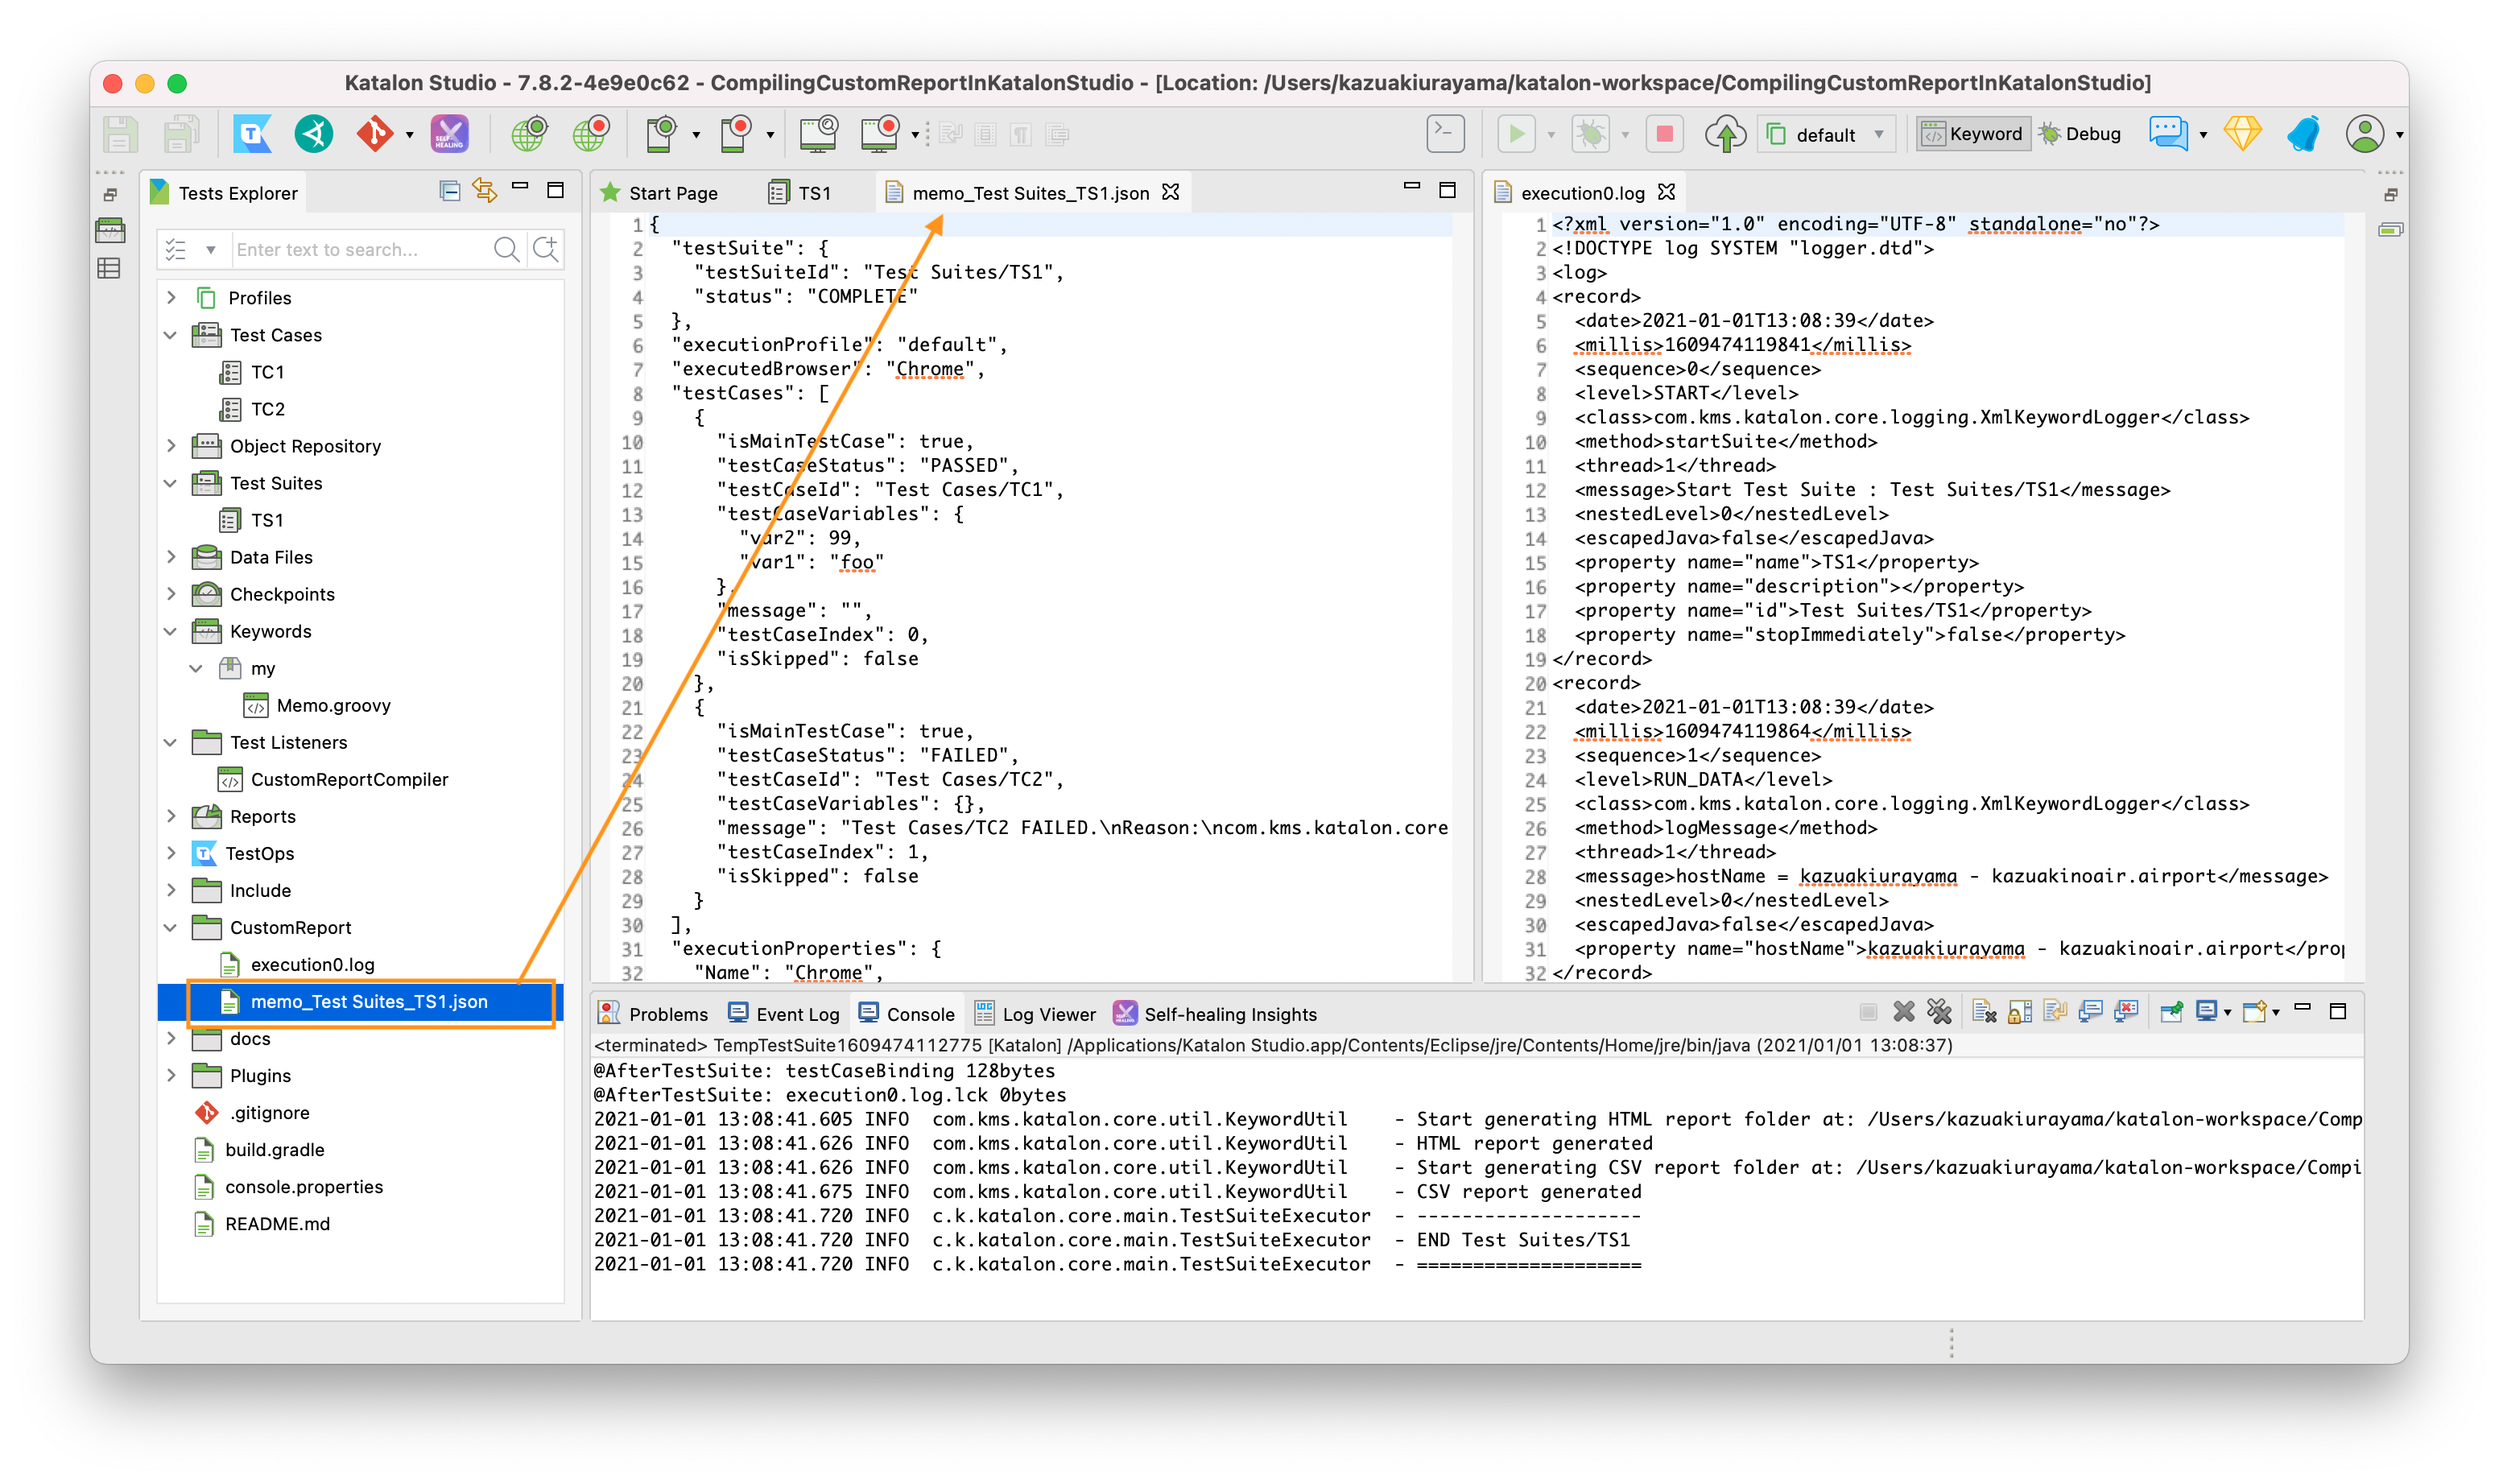
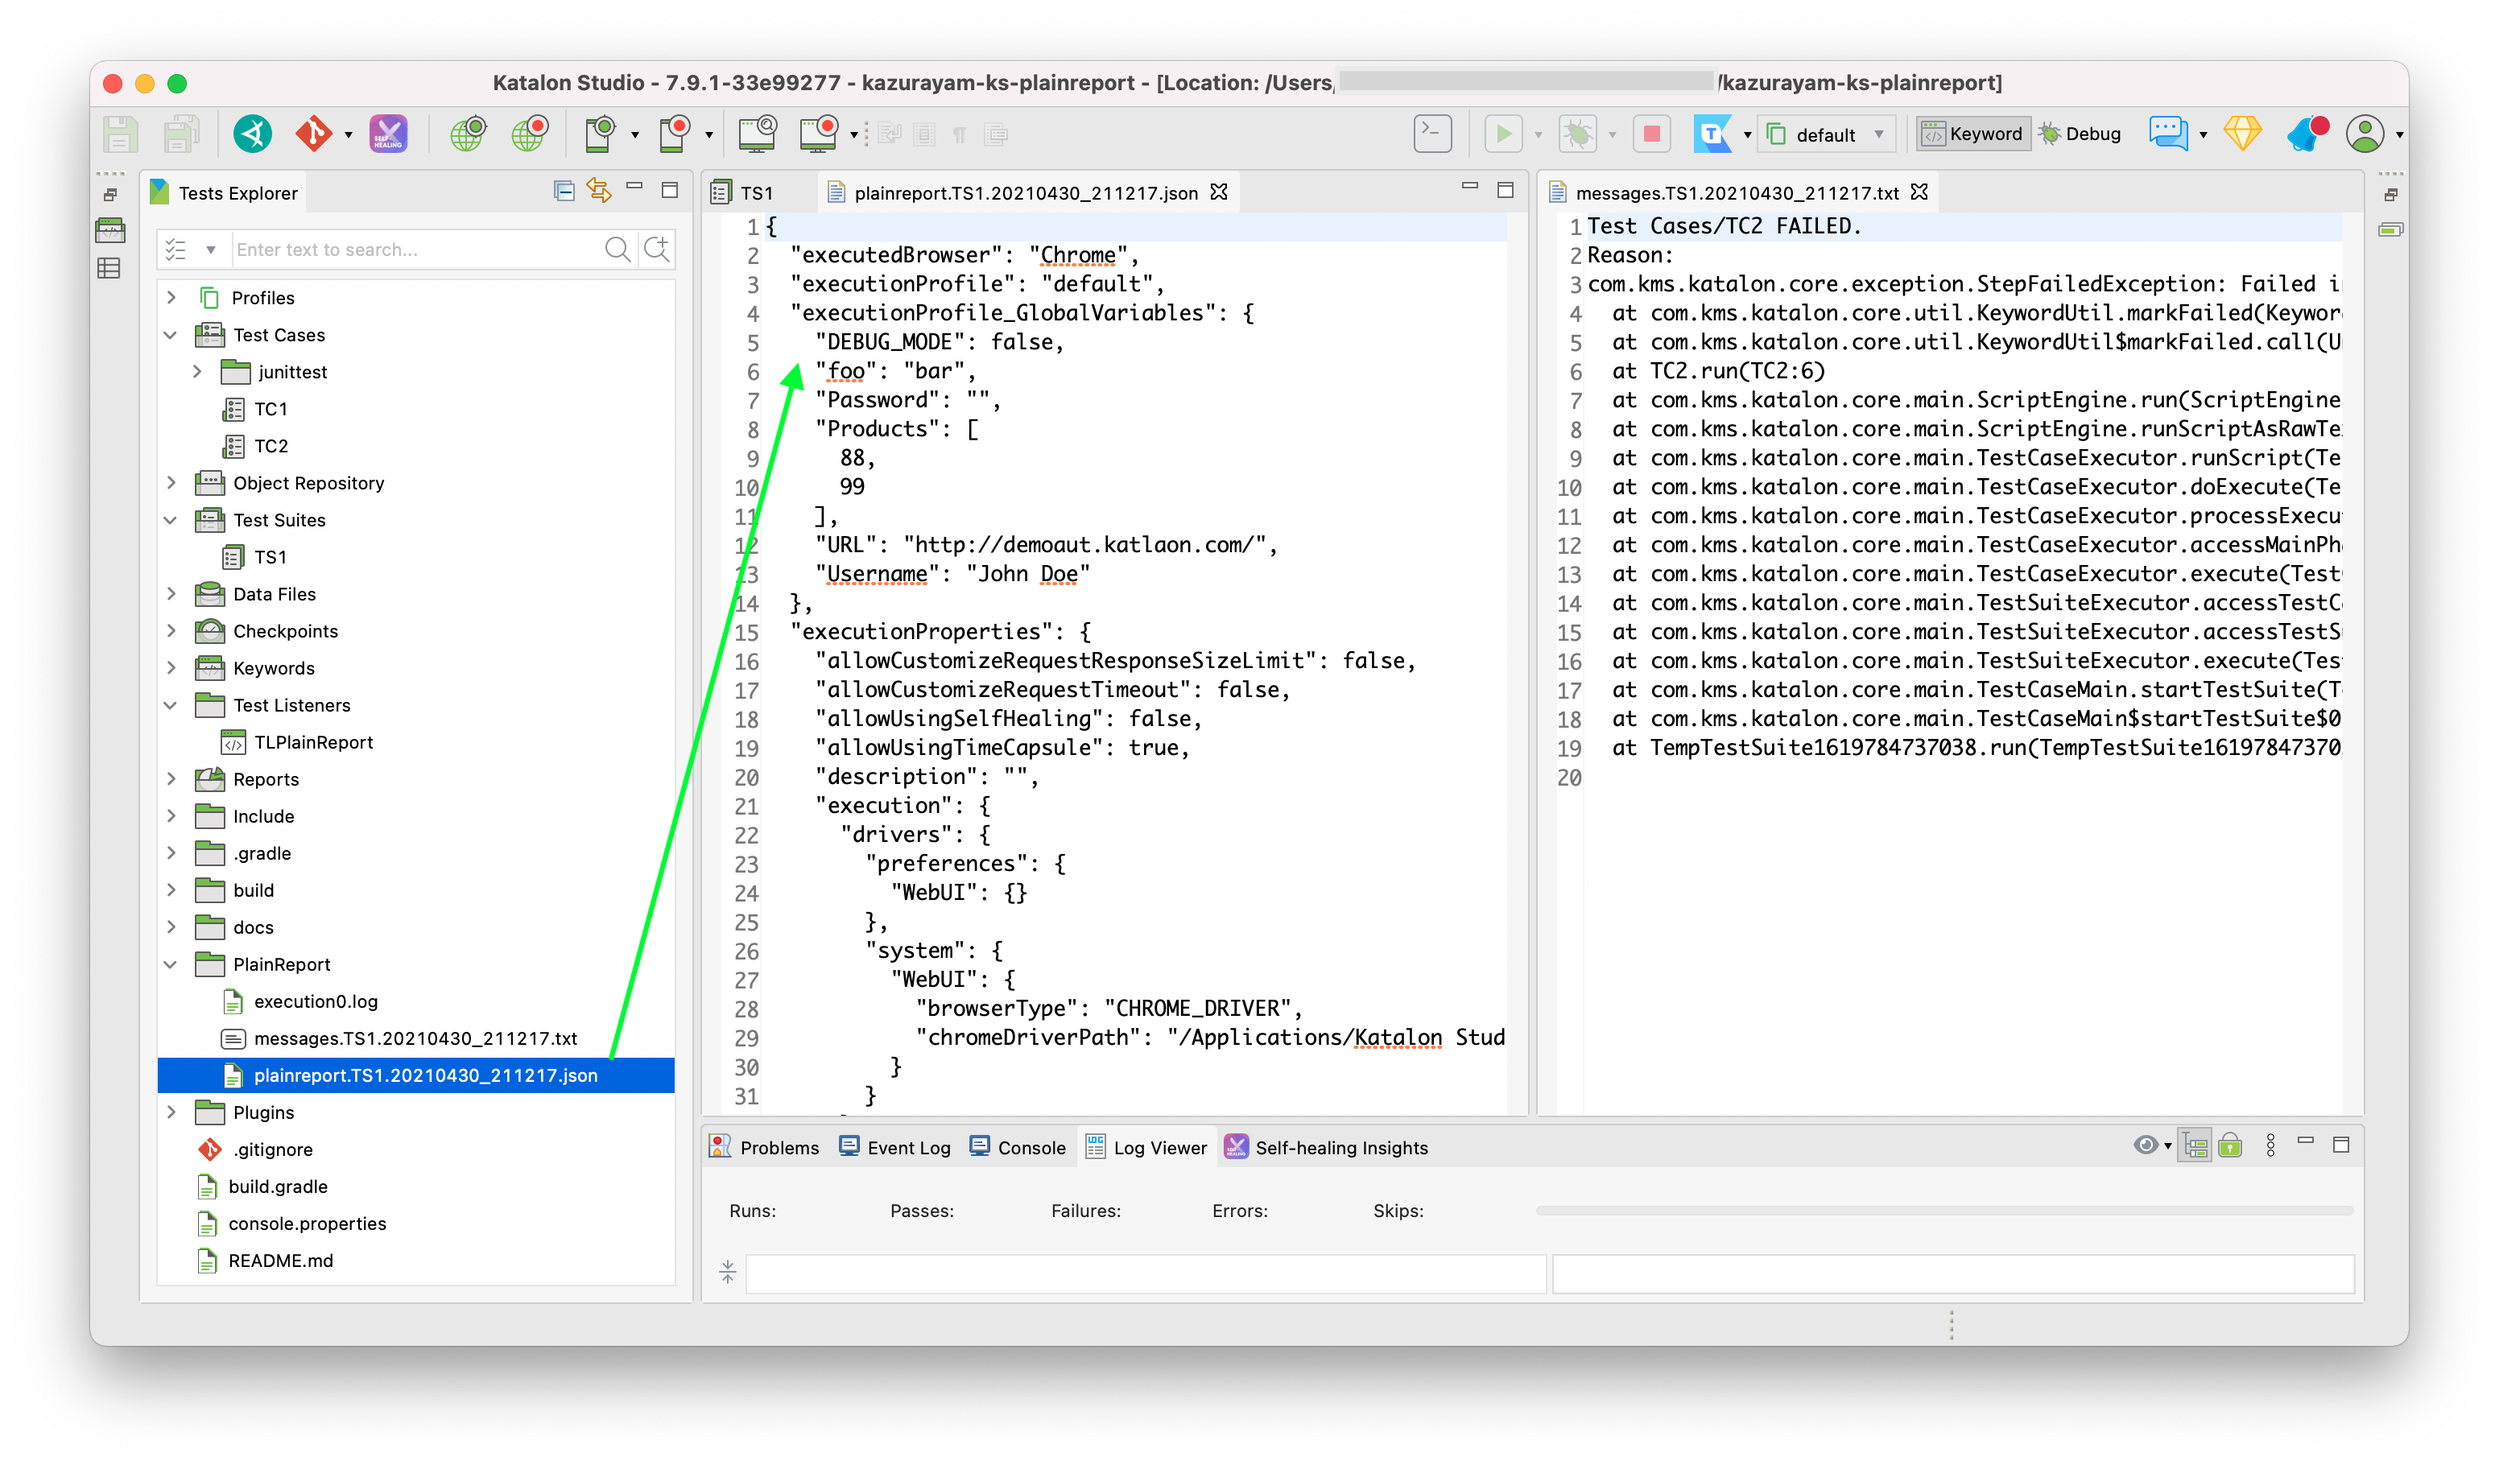
README

Changed region(s): [[0.0312, 0.0308, 0.9688, 0.8923], [0.8125, 0.5846, 0.8438, 0.6154]]

diff --git a/README.md b/README.md
@@ -10,13 +10,11 @@ This project was developed using Katalon Studio version 7.9.1 but it will run wi
 
 # Problem to solve
 
-In the Katalon User Forum, there was a [question](https://forum.katalon.com/t/get-results-html-path-filename-through-code/50526) that asked how to automatically copy the Test Reports in HTML/PDF format to another location once a test suite finished.
+In the Katalon User Forum, there was a [question](https://forum.katalon.com/t/get-results-html-path-filename-through-code/50526) that asked how to automatically copy the Test Reports in HTML/PDF format to another location once a test suite finished. In response to the question, I replied with a [post](https://forum.katalon.com/t/get-results-html-path-filename-through-code/50526/5)
+where I described my previous solution. To be honest, I am not very much happy with my previous solution. Russ Thomas replied a [post](https://forum.katalon.com/t/get-results-html-path-filename-through-code/50526/3) where
+he mentioned that, instead of bothering around the built-in Reports, he developed his own reporting functionality. 
 
-In response to the question, I replied with a [post](https://forum.katalon.com/t/get-results-html-path-filename-through-code/50526/5)
-where I described my previous solution. To be honest, I am not very much happy with my previous solution.
-
-Russ Thomas replied a [post](https://forum.katalon.com/t/get-results-html-path-filename-through-code/50526/3) where
-he mentioned that, instead of bothering around the built-in Reports, he developed his own reporting functionality. So I was motivated to seek for what custom report I can develop.
+So I was motivated to seek for what custom report I can develop in Katalon Studio.
 
 # Solution
 
@@ -41,7 +39,7 @@ I used the [Gson](https://github.com/google/gson) library to *jsonize* anonymous
 
 - In the `Test Listener` directory, create a new Test Listenner with any name.
 - Copy the sample code [Test Listeners/TLPlainReport](Test%20Listeners/TLPlainReport.groovy) and paste it into you new Test Listener, save it to disk.
-- No code editing is required.
+- The `TLPlainReport` is common to every case. No code editing is required.
 
 This new Test Listener is required.
 
@@ -60,19 +58,6 @@ Here I assume you will create a Test Suite named "TS1" which binds the TC1 and T
 Select the Test Suite "TS1" and run it.
 
 ## Demo output
-
-### Console log
-
-If you look at the console log, you can find output like this:
-```
-@AfterTestSuite
-Reports/20210101_133234/TS1/20210101_133234/execution0.log 30098bytes
-Reports/20210101_133234/TS1/20210101_133234/execution0.log.lck 0bytes
-Reports/20210101_133234/TS1/20210101_133234/execution.properties 2660bytes
-Reports/20210101_133234/TS1/20210101_133234/testCaseBinding 128bytes
-```
-
-This message proves that **2 files in the Report folder (`execution.properites` and `execution0.log`) are available at the event of `@AfterTestSuite`.** In these 2 files you can find almost all information out of Katalon Studio how the test suite was configured and how it ran.
 
 ### Output location
 
@@ -93,6 +78,19 @@ The [`report.TestSuiteID.yyyyMMdd_hhmmss.json`](PlainReport/plainreport.TS1.2021
 The [`messages.TestSuiteID.yyyyMMdd_hhmmss.txt`](PlainReport/messages.TS1.20210430_211217.txt) file contains the messages emitted by failed Test Cases in Java printStackTrace format.
 
 ![generatedReport](docs/images/generatedPlainReport.png)
+
+### Console log
+
+If you look at the console log, you can find output like this:
+```
+@AfterTestSuite
+Reports/20210101_133234/TS1/20210101_133234/execution0.log 30098bytes
+Reports/20210101_133234/TS1/20210101_133234/execution0.log.lck 0bytes
+Reports/20210101_133234/TS1/20210101_133234/execution.properties 2660bytes
+Reports/20210101_133234/TS1/20210101_133234/testCaseBinding 128bytes
+```
+
+This message proves that **2 files in the Report folder (`execution.properites` and `execution0.log`) are available at the event of `@AfterTestSuite`.** In these 2 files you can find almost all information out of Katalon Studio how the test suite was configured and how it ran.
 
 
 ## How the demo designed
